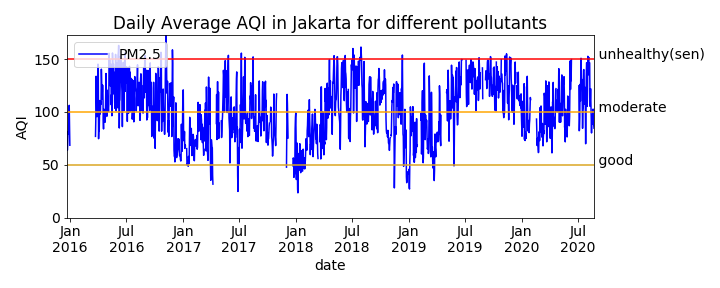
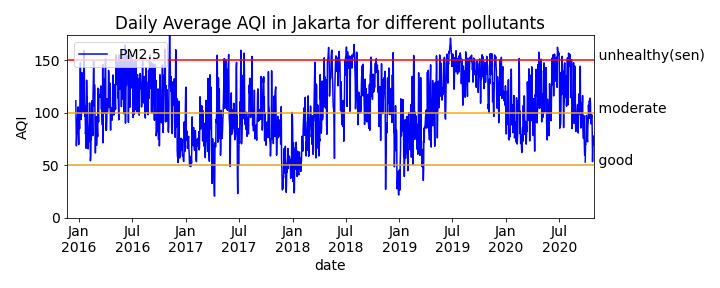
2020-10-30 19:16 auto backup

diff --git a/src/data/read_data.py b/src/data/read_data.py
@@ -52,34 +52,59 @@ def build_us_em_data(city_name: str, data_folder: str = '../data/us_emb/'):
     """Combine the pollution data from US Embassy monitoring station for the city. Return a list of pollution dataframe.
 
     """
-    if city_name not in ['Hanoi', 'Jakarta']:
-        raise AssertionError(f'no data for {city_name}')
-
+     
     if city_name == 'Jakarta':
         name_list = ['JakartaCentral', 'JakartaSouth']
-    else:
+    elif city_name == 'Rangoon':
+        name_list = ['Rangoon']
+    elif city_name == ['Vientiane']:
+        name_list = ['Vientiane']
+    elif city_name =='Ho Chi Minh City':
+        name_list = ['HoChiMinhCity']
+    elif city_name =='JakartaCentral':
+        name_list = ['JakartaCentral']
+    elif city_name == 'JakartaSouth':
+        name_list = ['JakartaSouth']
+    elif city_name =='Hanoi':
         name_list = ['Hanoi']
+    else:
+        raise AssertionError(f'no data for {city_name}')
 
     data_list = []
 
     for name in name_list:
-        files = glob(f'{data_folder}{name}*.csv')
-
+        files = glob(f'{data_folder}{name}_*.csv')
+    
         data = pd.DataFrame()
         # concatenate all data
         for file in files:
             df = pd.read_csv(file, na_values=[-999])
+            df.columns = df.columns.str.replace('Raw Conc.', 'Value')
+            #remove negative number 
+            idxs = df[df['Value'] < 0].index
+            df.loc[idxs, 'Value'] = np.nan
             data = pd.concat([data, df])
         # format the data
         data['Parameter'] = data['Parameter'].str.split(' - ', expand=True)[0]
         data['datetime'] = pd.to_datetime(data['Date (LT)'])
         data = data.sort_values('datetime')
-        data = data.drop_duplicates('datetime')
+        data = data.drop_duplicates(['datetime','Parameter'])
         data = data.pivot(
             columns='Parameter',
             values='Value',
             index='datetime').reset_index()
-        data = data.dropna()
+        data = data.dropna(how='all')
+
+        # remove outlier from the data 
+        data = data.set_index('datetime')
+        for col in data.columns:
+            q_high = data[col].quantile(0.9999)
+            if city_name == 'Jakarta':
+                q_high = 300
+            idxs = data[data[col] > q_high].index
+            data.loc[idxs, col] = np.nan
+        data = data.reset_index()
+        
         data_list.append(data)
 
     return data_list

diff --git a/src/data/download_data.py b/src/data/download_data.py
@@ -331,9 +331,10 @@ def download_us_emb_data(
     
     if year is None:
         year = datetime.now().year
+        month = datetime.now().month
 
     print(f'\n Download us embassy data in ASEAN for {year}')
-
+    
     for city in city_list:
         filename = f'{data_folder}{city}_PM2.5_{year}_YTD.csv'
         if os.path.exists(filename):
@@ -341,11 +342,23 @@ def download_us_emb_data(
         url = f'http://dosairnowdata.org/dos/historical/{city}/{year}/{city}_PM2.5_{year}_YTD.csv'
         wget.download(url, filename)
 
+        filename = f'{data_folder}{city}_PM2.5_{year}_{month}_MTD.csv'
+        if os.path.exists(filename):
+            os.remove(filename)
+        url = f'http://dosairnowdata.org/dos/historical/{city}/{year}/{city}_PM2.5_{year}_{month}_MTD.csv'
+        wget.download(url, filename)
+
         if city == 'Rangoon':
             filename = f'{data_folder}{city}_OZONE_{year}_YTD.csv'
             if os.path.exists(filename):
                 os.remove(filename)
             url = f'http://dosairnowdata.org/dos/historical/{city}/{year}/{city}_OZONE_{year}_YTD.csv'
+            wget.download(url, filename)
+
+            filename = f'{data_folder}{city}_OZONE_{year}_{month}_MTD.csv'
+            if os.path.exists(filename):
+                os.remove(filename)
+            url = f'http://dosairnowdata.org/dos/historical/{city}/{year}/{city}_OZONE_{year}_{month}_MTD.csv'
             wget.download(url, filename)
 
 

diff --git a/src/data/vn_data.py b/src/data/vn_data.py
@@ -197,7 +197,7 @@ def download_vn_data(
                  'Gia Lai': 'Gia Lai',
                  'Cao Bằng': 'Cao Bang'}
 
-    data = []
+    data = pd.DataFrame()
     station_info_list = []
 
     for station in tqdm(station_list):
@@ -212,18 +212,20 @@ def download_vn_data(
         station_info['city'] = city_name
         station_info_list.append(station_info)
 
-        # extract data
-        df = extract_vn_data(browser, wait_time=20)
-        df['city'] = city_name
-        df['station'] = station
-        #print(station, 'has data len ', len(df))
-        data.append(df)
+        try: # extract data
+            df = extract_vn_data(browser, wait_time=20)
+        except:
+            pass
+        else:
+            df['city'] = city_name
+            df['station'] = station
+            #print(station, 'has data len ', len(df))
+            data = pd.concat([data, df], ignore_index=True)
+            data.to_csv(filename, index=False)
 
     browser.close()
 
-    station_len = len(df)
-    #print('the last station has len', station_len )
-    data = pd.concat(data, ignore_index=True)
+    #data = pd.concat(data, ignore_index=True)
     print('the total data has len', len(data))
     print('save file as ', filename)
     data.to_csv(filename, index=False)

diff --git a/src/imports.py b/src/imports.py
@@ -62,7 +62,6 @@ from bokeh.models.tickers import FixedTicker
 from bokeh.palettes import Viridis5
 from bokeh.plotting import figure, show, output_file
 from bokeh.layouts import widgetbox, row, column, gridplot
-from mpl_toolkits.basemap import Basemap
 from bokeh.tile_providers import get_provider, Vendors
 import geopandas as gpd
 import fiona
